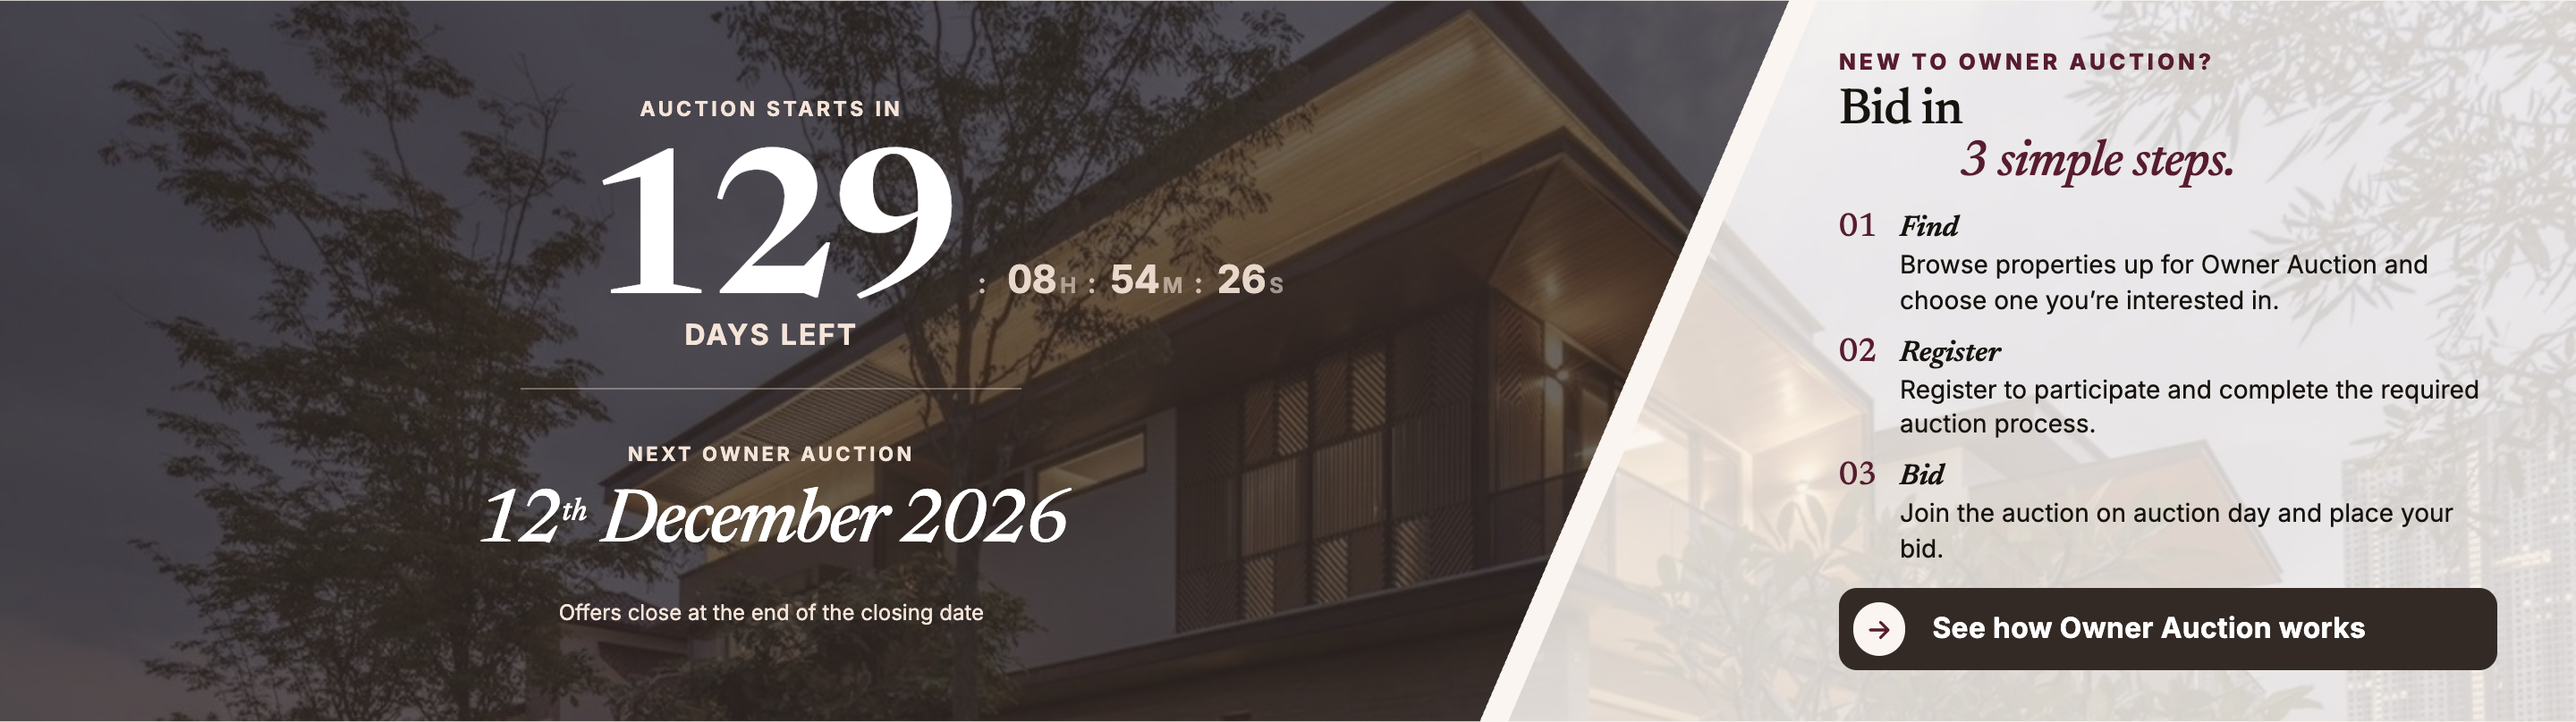
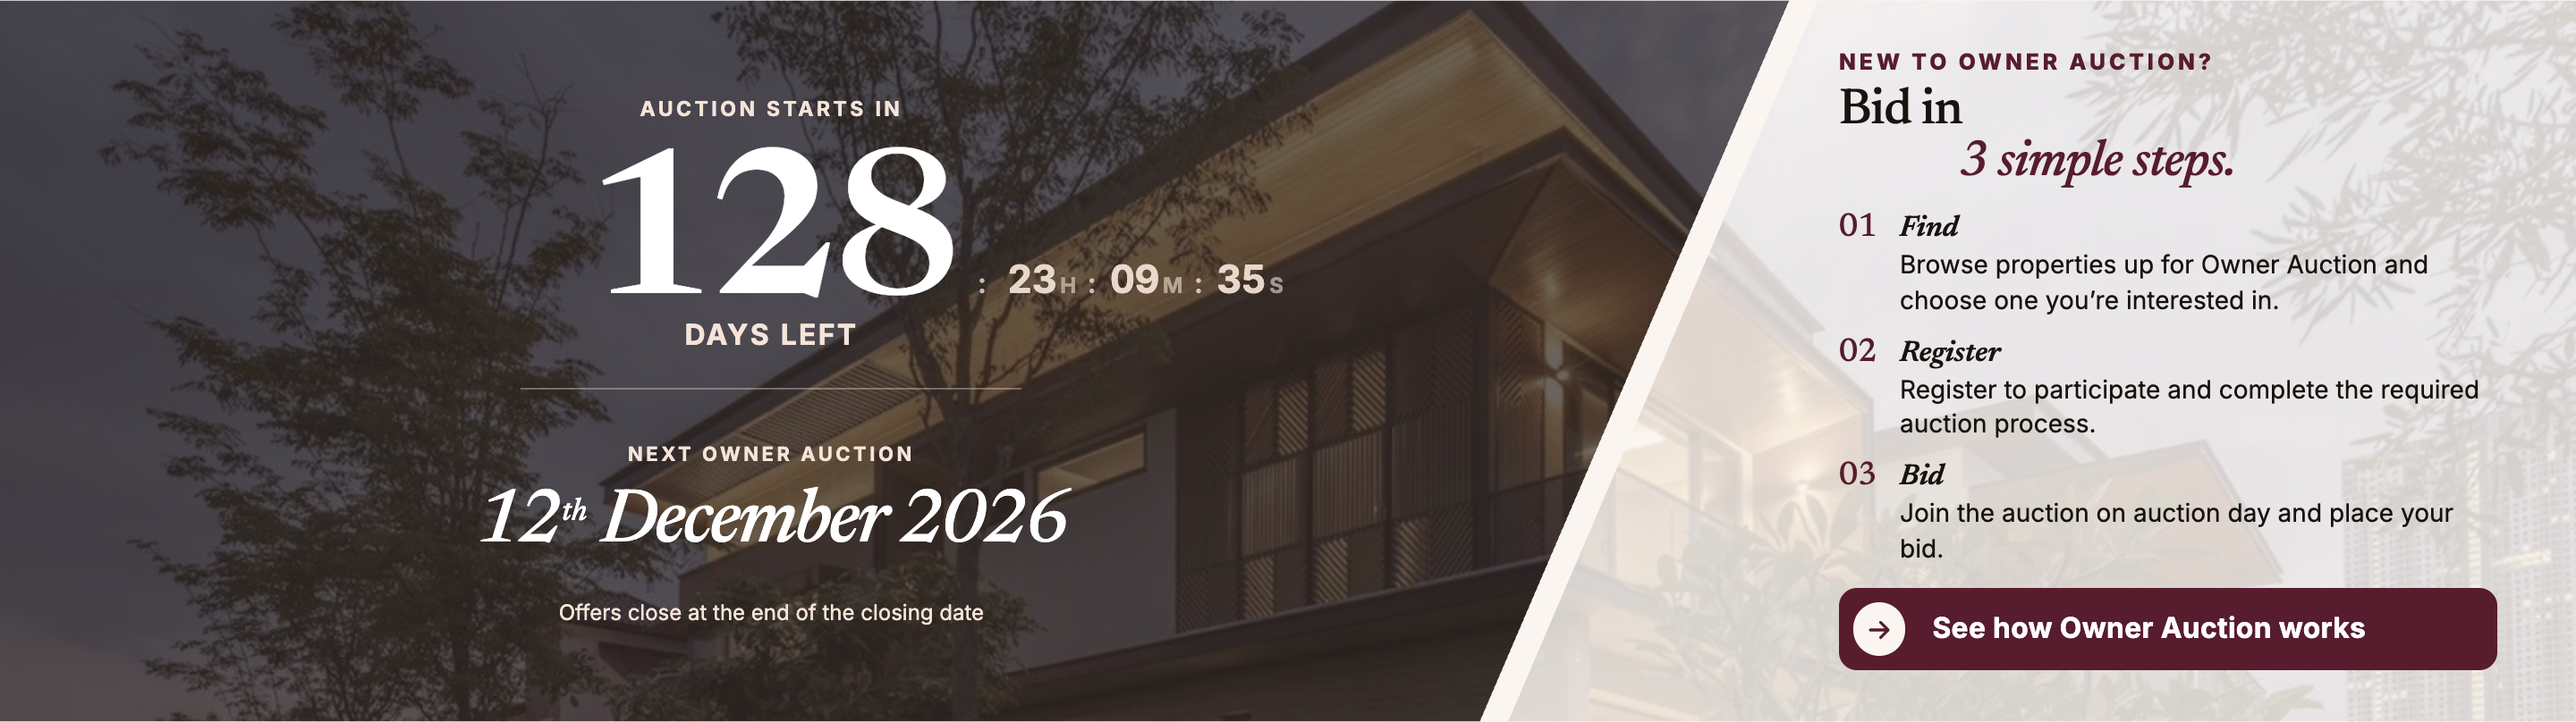
Revert "Owner Auction: a gavel watermark in the panel's dead corner"
This reverts f66466a. Bryan looked at it rendered and called it off.

Reverted whole rather than tuned: the glyph, the markup and the CSS all come
out, and `GavelIcon` goes with them. A drawn-but-unused icon sitting in
icons.tsx is the kind of thing that gets re-introduced by accident later, and
the file is a shared one — E-Tender must never carry a gavel, so leaving a
loaded gun there is worse than redrawing it if it is ever wanted again. The
reasoning is preserved in f66466a if it comes back.

Verified after: no .oa-gavel node, hero back to 403px, no console errors, zero
horizontal overflow, tsc + eslint + build green.

Changed region(s): [[0.6875, 0.8045, 0.9688, 0.9282], [0.3125, 0.2166, 0.4062, 0.4022], [0.4375, 0.3713, 0.5, 0.4022]]

diff --git a/src/styles/tender-listings.css b/src/styles/tender-listings.css
@@ -1561,41 +1561,3 @@
   background-size: cover;
   background-position: 50% 22%;
 }
-
-/* ── OWNER AUCTION: the gavel watermark ───────────────────────────────────────
-   Bryan spotted that the right panel's top-right corner was doing nothing, and a
-   gavel is the fastest way to say "auction" — the one thing this page must not be
-   confused with E-Tender on.
-
-   Watermark, deliberately, not an illustration. The brand is flat and restrained
-   and this repo has form for deleting decoration (the glossy pin, the circled
-   glyph), so it goes in at 8% and large: at that weight it reads as texture the
-   corner needed rather than as a sticker competing with the 01/02/03 rhythm.
-
-   Stacking: `.hero-panel-inner` is z-index 1, and the paper wash is the panel's
-   ::before. This span sits between them in DOM order, so the copy stays on top and
-   the gavel stays above the wash — under it, at .84 paper, it would be erased.
-   Clipped by the panel's own clip-path, so it can never cross the seam. */
-.oa-page .oa-gavel {
-  position: absolute;
-  /* FULLY INSIDE the panel. Bled off the right edge first time and only a fragment
-     showed, which reads as a stray shape rather than a gavel — the mark has to be
-     whole to do its one job.
-     Measured, the corner is not actually empty: the copy block runs to within 44px
-     of the panel's right edge. What looks like space is where the text LINES are
-     short, so the watermark sits behind the copy by design and is placed where the
-     glyphs are sparsest — right of the two heading lines, above the step bodies. */
-  top: 10px;
-  right: 30px;
-  width: clamp(140px, 13.5vw, 200px);
-  color: var(--burgundy);
-  /* 11%, not 8%: the panel's photo is bamboo shadow, and against that texture 8%
-     disappeared entirely rather than reading as a quiet mark. */
-  opacity: .11;
-  pointer-events: none;
-  line-height: 0;
-}
-.oa-page .oa-gavel svg { width: 100%; height: auto; display: block; }
-/* Below 860 the hero stacks and the panel is short — the watermark would sit on
-   the copy rather than beside it. */
-@media (max-width: 860px) { .oa-page .oa-gavel { display: none; } }

diff --git a/src/components/tender/icons.tsx b/src/components/tender/icons.tsx
@@ -359,36 +359,3 @@ export const ArrowRightIcon = () => (
     <path d="M5 12h13M13 6l6 6-6 6" />
   </svg>
 );
-
-/* Gavel — drawn here rather than licensed, so it carries no stock-artwork
-   dependency into the EasyAsia handoff and speaks the same line language as the
-   rest of this file. 64-unit viewBox, not 24: at watermark size a 1.8 stroke in a
-   24 box scales to ~20px of ink, which reads as a thick cartoon. Four times the
-   grid keeps the strokes fine when the glyph is 260px wide.
-   Owner Auction only — a gavel is the one mark E-Tender must NOT carry, since a
-   sealed tender is explicitly not an auction. */
-export const GavelIcon = () => (
-  <svg
-    viewBox="0 0 64 64"
-    fill="none"
-    stroke="currentColor"
-    strokeWidth="2.4"
-    strokeLinecap="round"
-    strokeLinejoin="round"
-    aria-hidden="true"
-  >
-    {/* Mallet head, squarer than the first attempt — a long thin rotated box read as
-        a bracket, not a hammer. The two face bands are what make it unmistakable; an
-        outlined rectangle at 45 degrees on its own is just a shape. */}
-    <rect x="7.5" y="13" width="27" height="13" rx="3" transform="rotate(-45 21 19.5)" />
-    <path d="M15.2 9.6 24.4 18.8" />
-    <path d="M11.6 13.2 20.8 22.4" />
-    {/* Handle, run longer than the head is wide so it reads as a gavel rather than a
-        mallet with a stub. */}
-    <path d="M29.5 28.5 47 46" />
-    {/* The block it strikes, plus the wider base under it. Both are needed — the cap
-        alone reads as a second, smaller head. */}
-    <rect x="33" y="46.5" width="21" height="8" rx="2.5" />
-    <path d="M29.5 58h28" />
-  </svg>
-);

diff --git a/src/routes/owner-auction/index.tsx b/src/routes/owner-auction/index.tsx
@@ -1,9 +1,9 @@
 import { createFileRoute } from "@tanstack/react-router";
 import { useCallback, useEffect, useMemo, useState } from "react";
 
-import { GavelIcon, TaHome, TaPin } from "@/components/tender/icons";
 import { SiteFooter } from "@/components/tender/SiteFooter";
 import { SiteHeader } from "@/components/tender/SiteHeader";
+import { TaHome, TaPin } from "@/components/tender/icons";
 import { STATES, TYPE_TAXONOMY } from "@/data/tender-taxonomy";
 import { TENDERS, type Tender } from "@/data/tenders";
 import {
@@ -371,12 +371,6 @@ function OwnerAuction() {
           </div>
 
           <div className="hero-panel hero-panel-right">
-            {/* Watermark, not an illustration: it sits BELOW the copy (the inner is
-                z-index 1) and above the paper wash, so it reads as texture in a corner
-                that was otherwise doing nothing. Decorative, hence aria-hidden. */}
-            <span className="oa-gavel" aria-hidden="true">
-              <GavelIcon />
-            </span>
             <div className="hero-panel-inner">
               <p className="hero-eyebrow">New to Owner Auction?</p>
               <h2 className="hero-steps-head">
